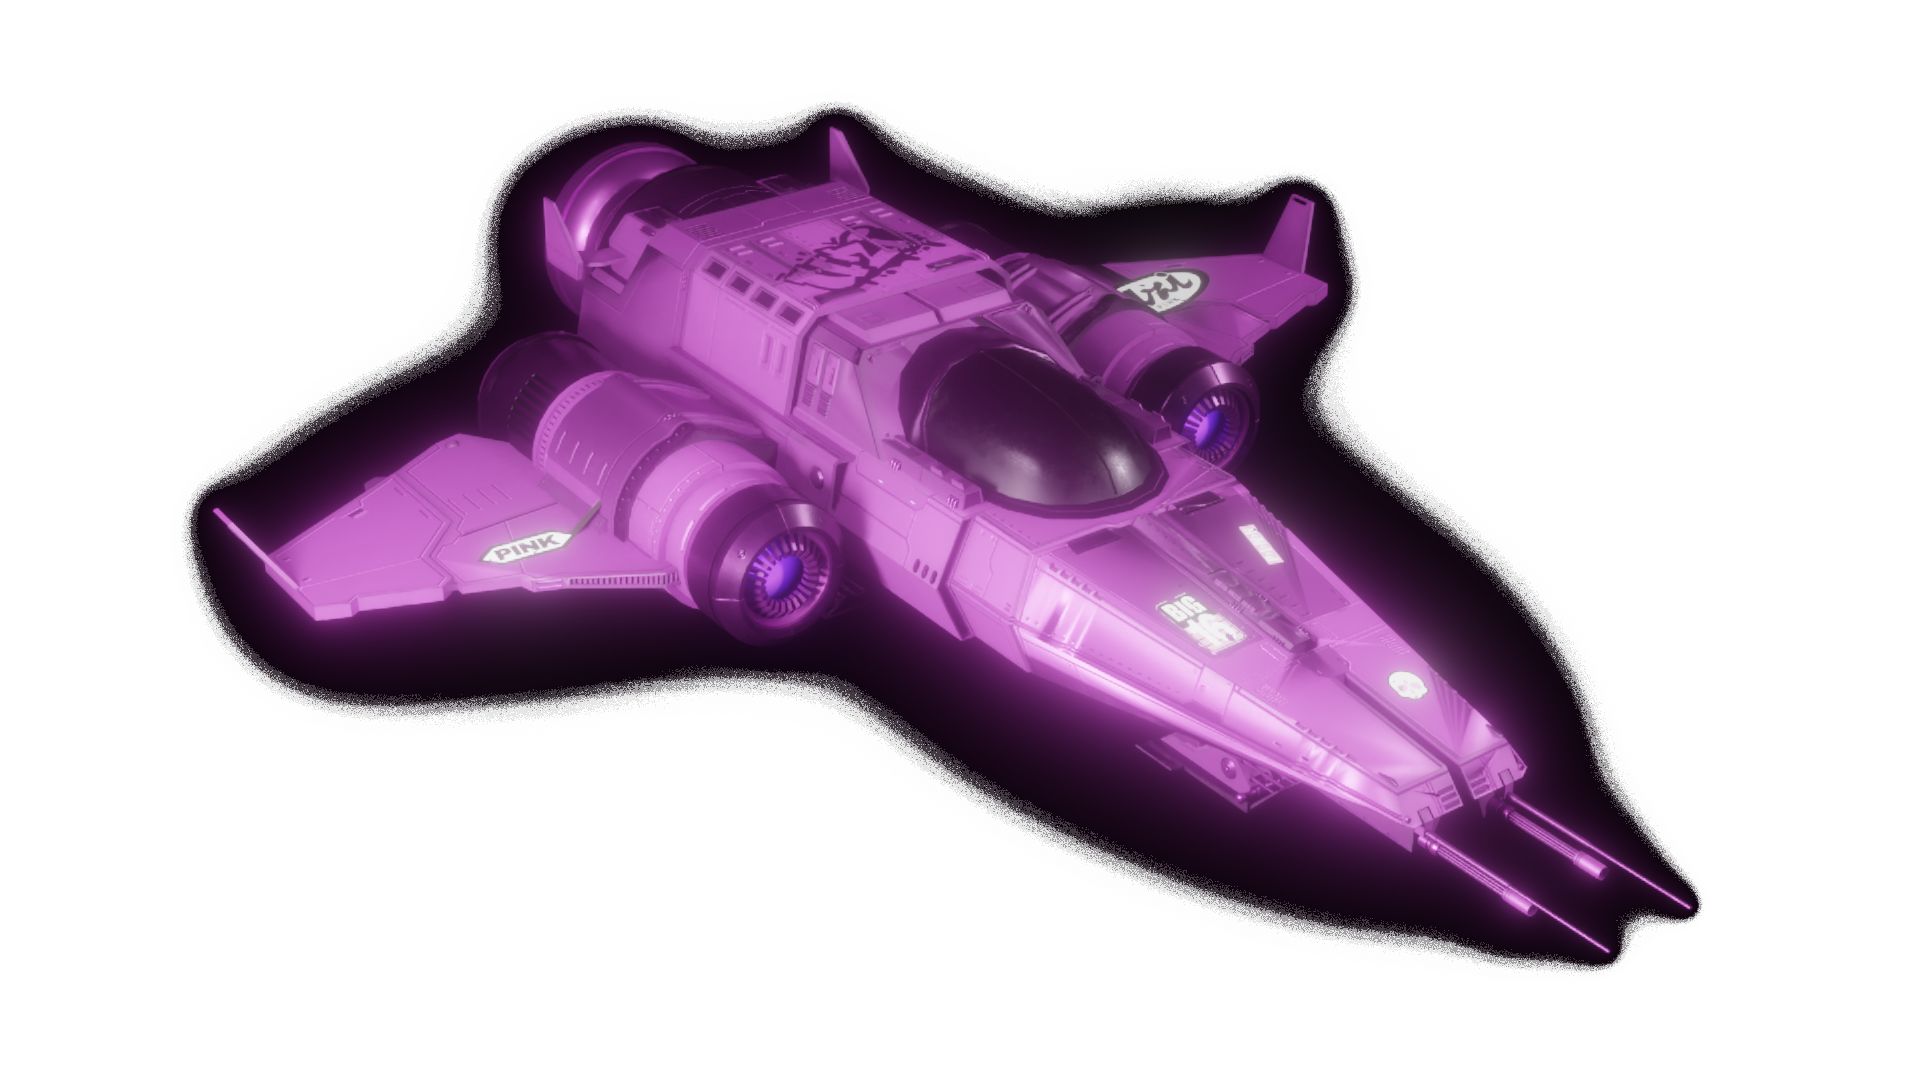
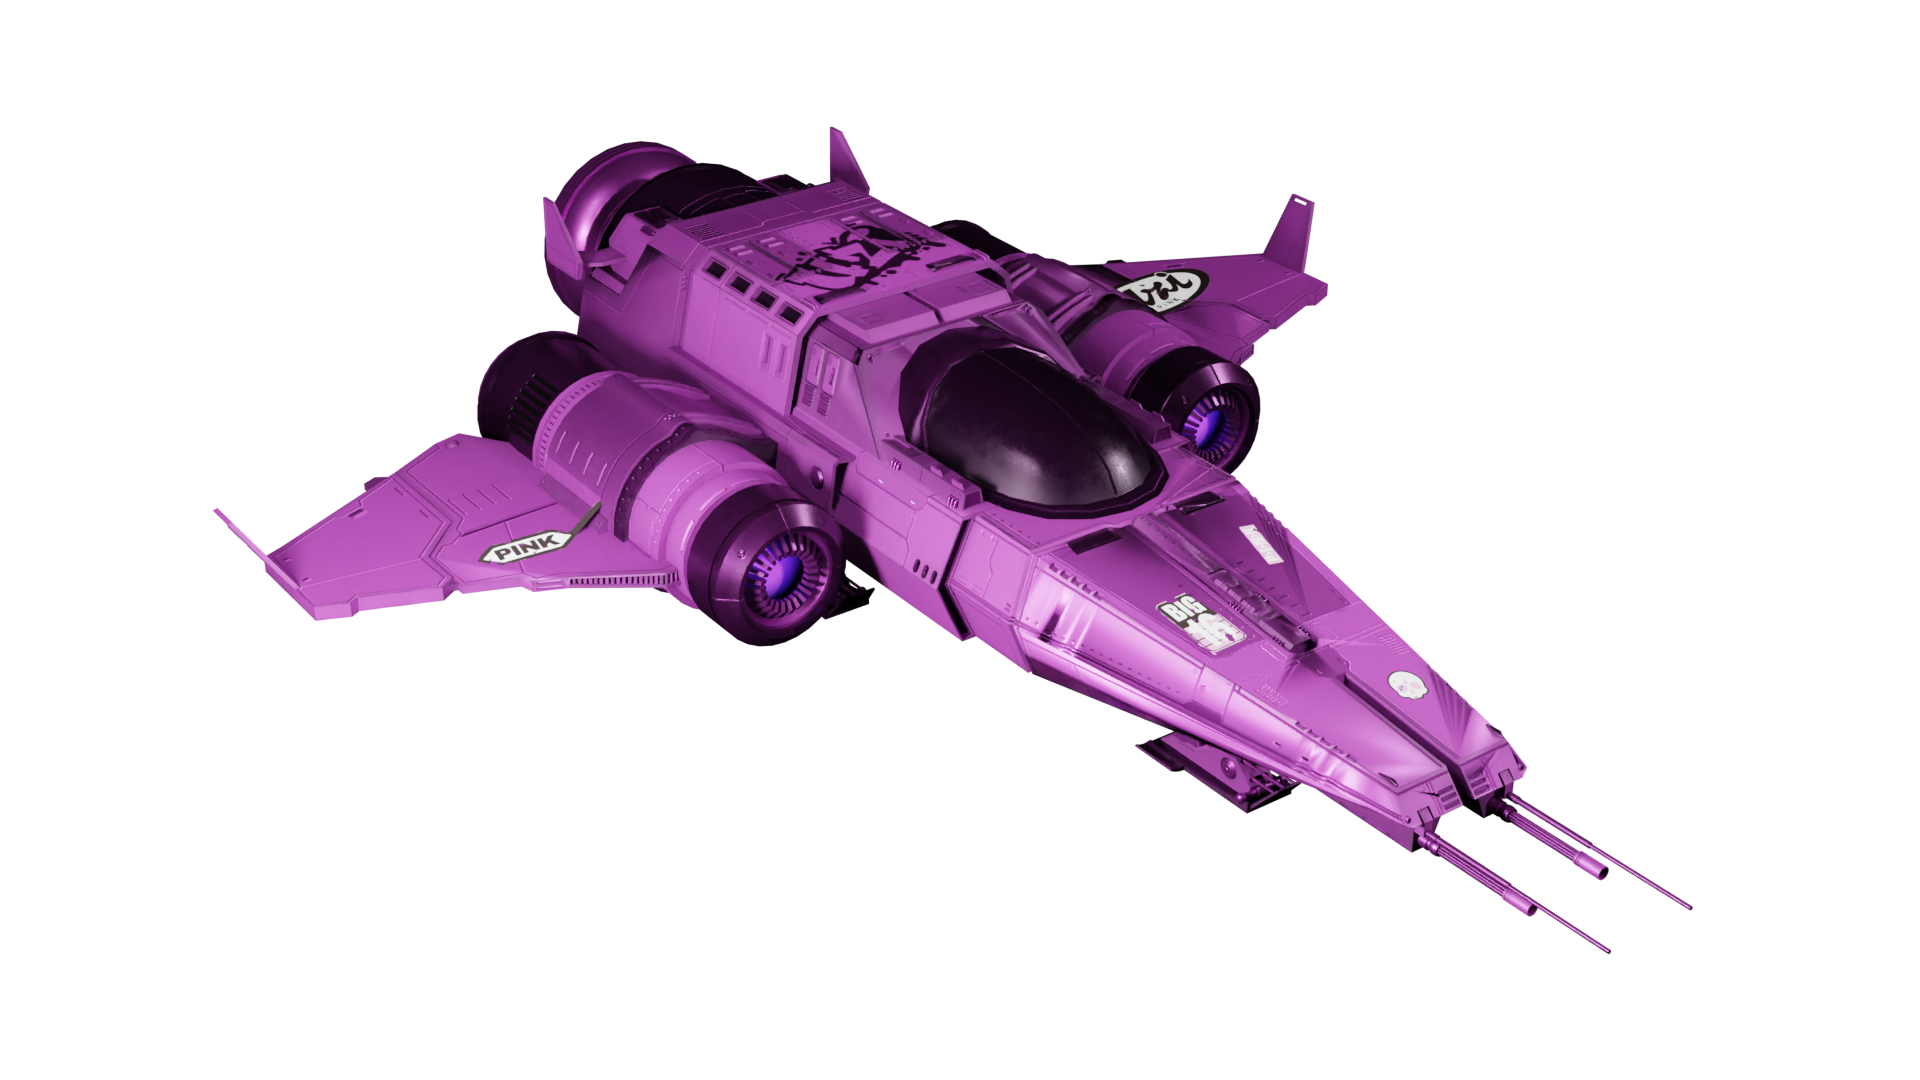
add animated blur to spaceship

Changed region(s): [[0.0938, 0.0917, 0.9062, 0.9167]]

diff --git a/src/components/LoadingScreen.tsx b/src/components/LoadingScreen.tsx
@@ -2,27 +2,39 @@
 
 import React, { FC, useState } from "react";
 import Image from "next/image";
-import { motion, useScroll } from "framer-motion";
+import {
+  motion,
+  useScroll,
+  useTransform,
+  animate,
+  useMotionValue,
+} from "framer-motion";
 import logo from "../../public/loading/logo.png";
 import spaceship from "../../public/loading/spaceship.png";
 
 export const LoadingScreen: FC = () => {
-  const [scroll, setScroll] = useState(0);
   const { scrollYProgress } = useScroll();
+  const blurVal = useTransform(scrollYProgress, [0, 1], [0, 300]);
+  const blur = useTransform(blurVal, (v) => `blur(${v}px)`);
+  const scale = useTransform(scrollYProgress, [0, 1], [1, 26]);
 
-  scrollYProgress.on("change", (latest) => {
-    setScroll(latest);
-    console.log(latest);
+  const spaceShipBlurVal = useMotionValue(0.35);
+  const spaceShipAnimate = animate(spaceShipBlurVal, 1.5, {
+    duration: 0.7,
+    repeat: Infinity,
+    repeatType: "mirror",
+    ease: "easeOut",
   });
+  const spaceShipBlur = useTransform(
+    spaceShipBlurVal,
+    (v) => `drop-shadow(0 0 ${v}rem #ff1aec)`,
+  );
 
   return (
     <div className="relative">
       <div className="absolute w-screen z-30 h-[300vh]">
         <div className="items-center flex flex-col fixed w-screen h-screen">
-          <motion.div
-            className="mt-20"
-            style={{ filter: `blur(${scroll * 150}px)` }}
-          >
+          <motion.div className="mt-20" style={{ filter: blur }}>
             <Image
               src={logo}
               alt="uzi-logo"
@@ -32,12 +44,13 @@ export const LoadingScreen: FC = () => {
             />
           </motion.div>
           <motion.div
-            className="w-[390px]"
+            className="mt-32 w-[390px]"
             style={{
-              scaleY: `${1 + scroll * 25}`,
-              scaleX: `${1 + scroll * 25}`,
-              marginTop: `${128 + scroll * 500}px`,
+              scaleY: scale,
+              scaleX: scale,
+              filter: spaceShipBlur,
             }}
+            animate={{}}
           >
             <Image
               src={spaceship}
